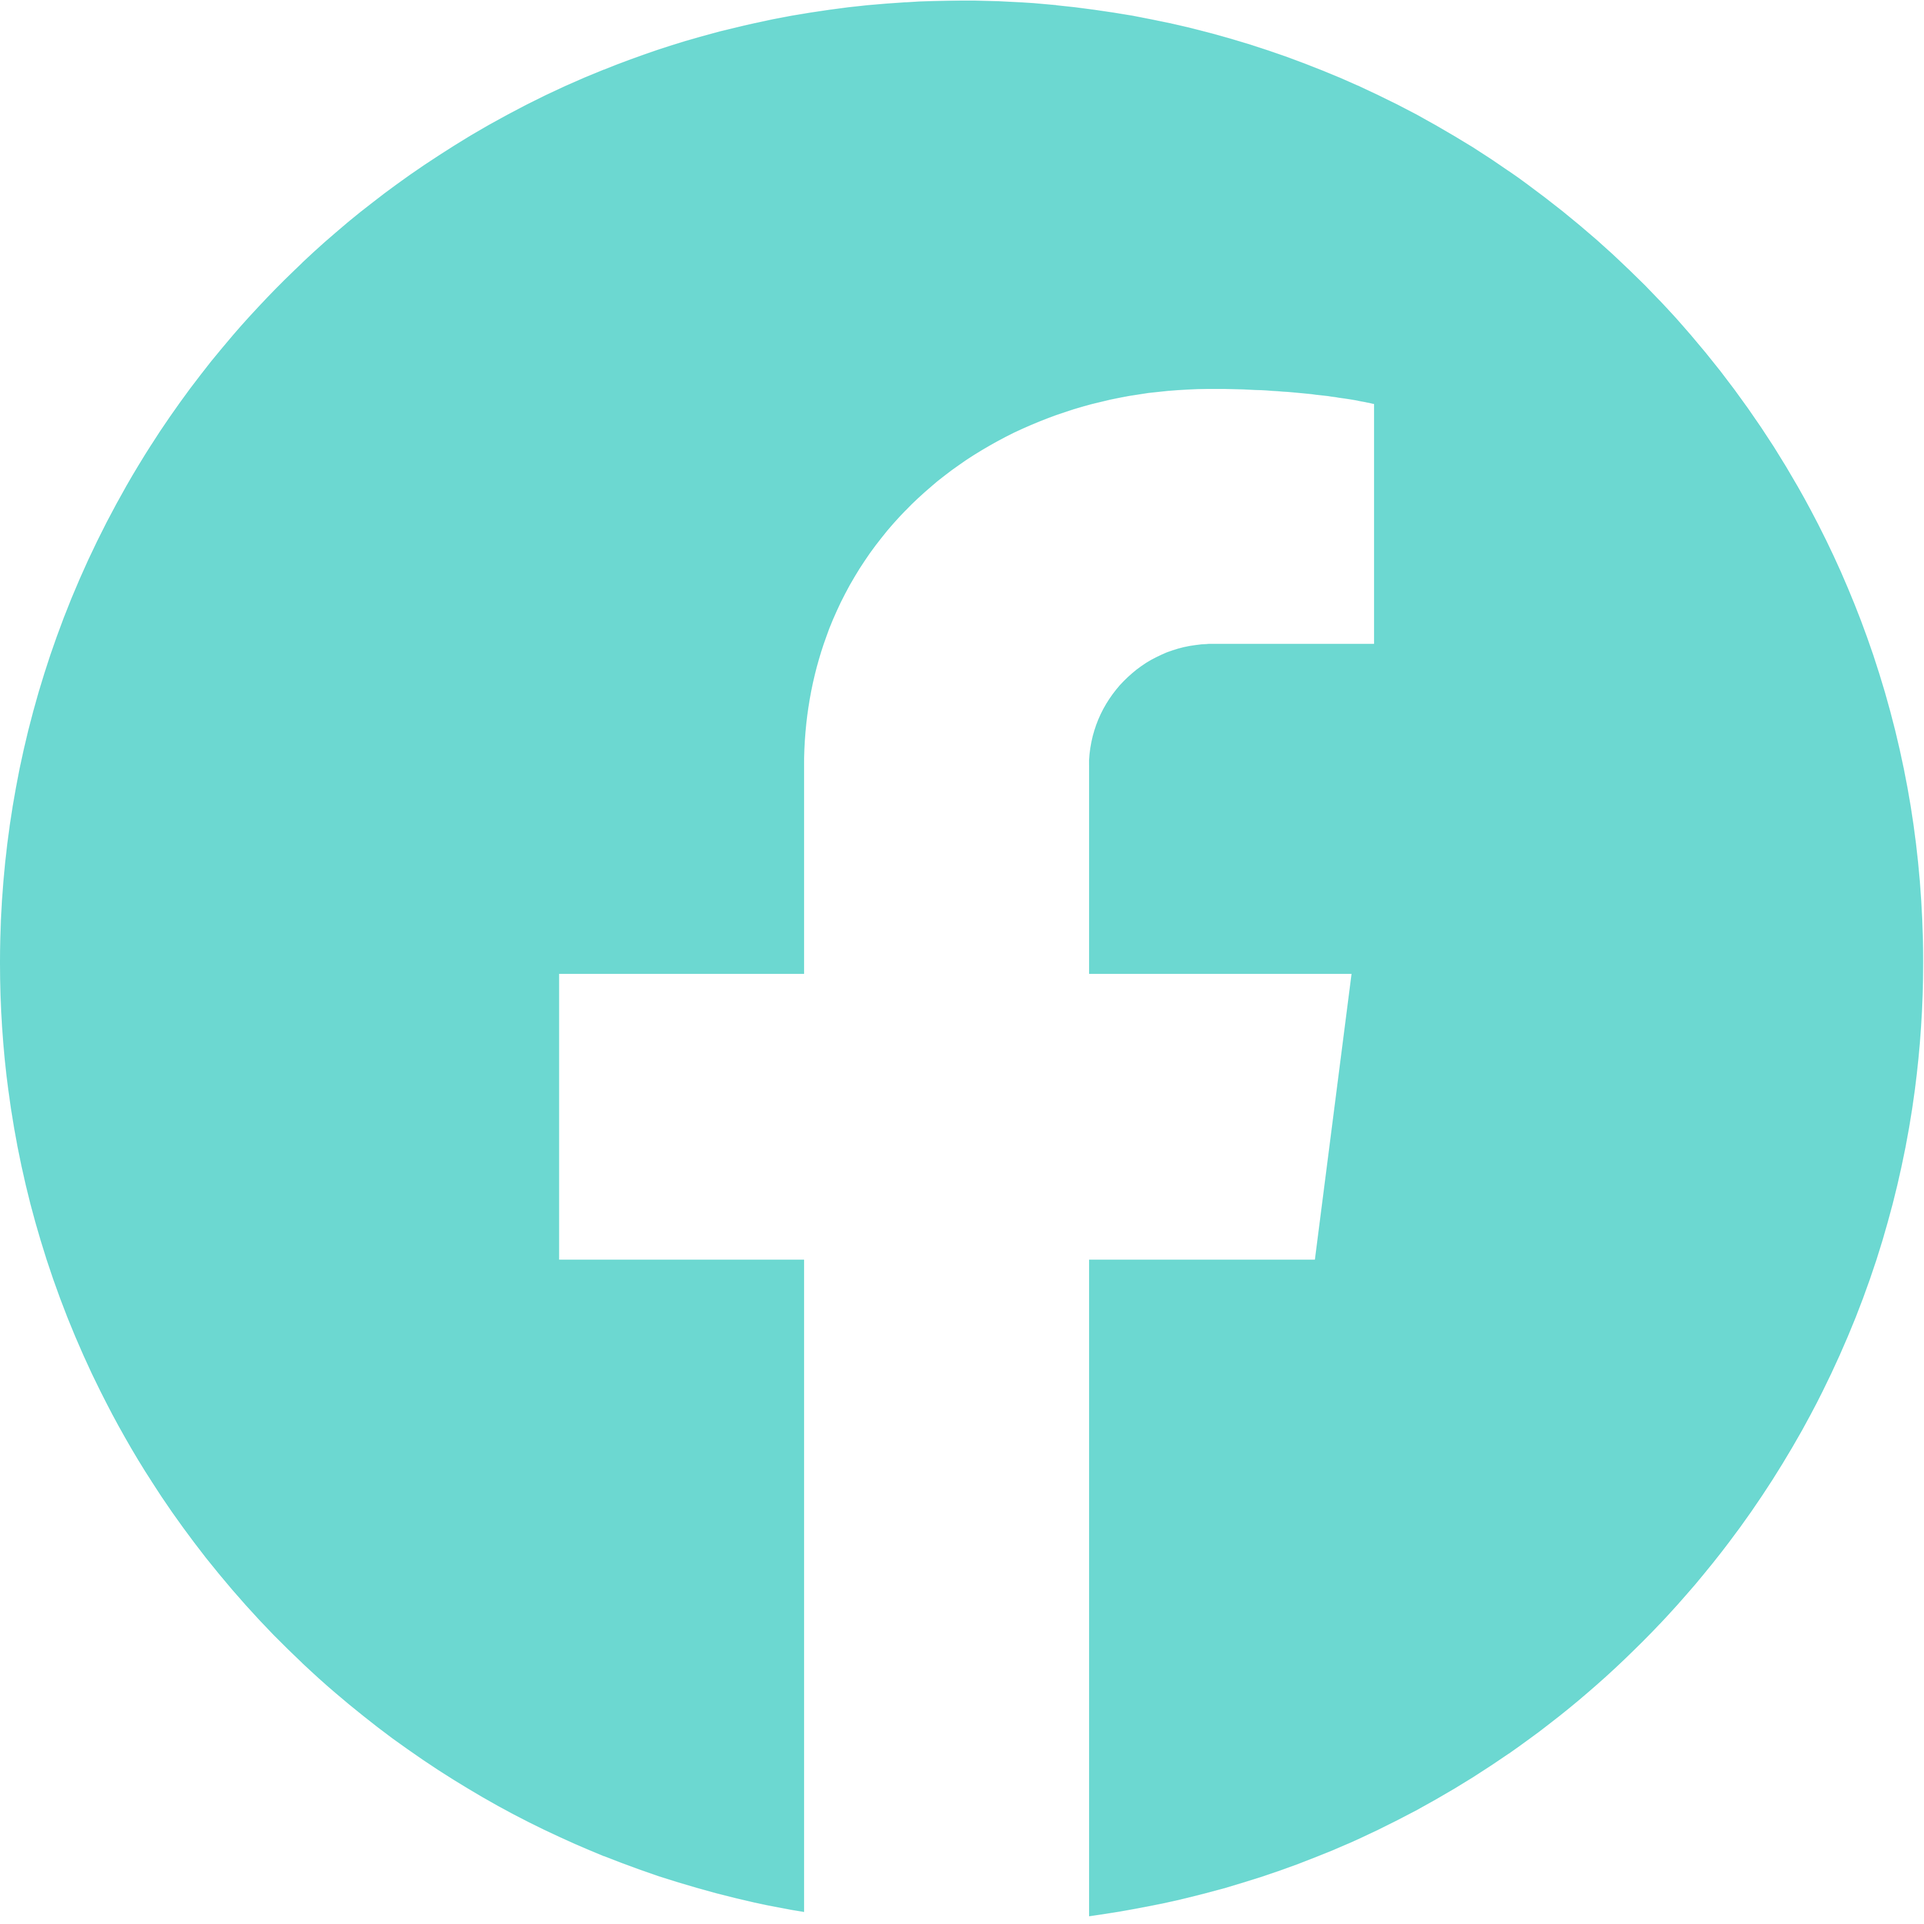
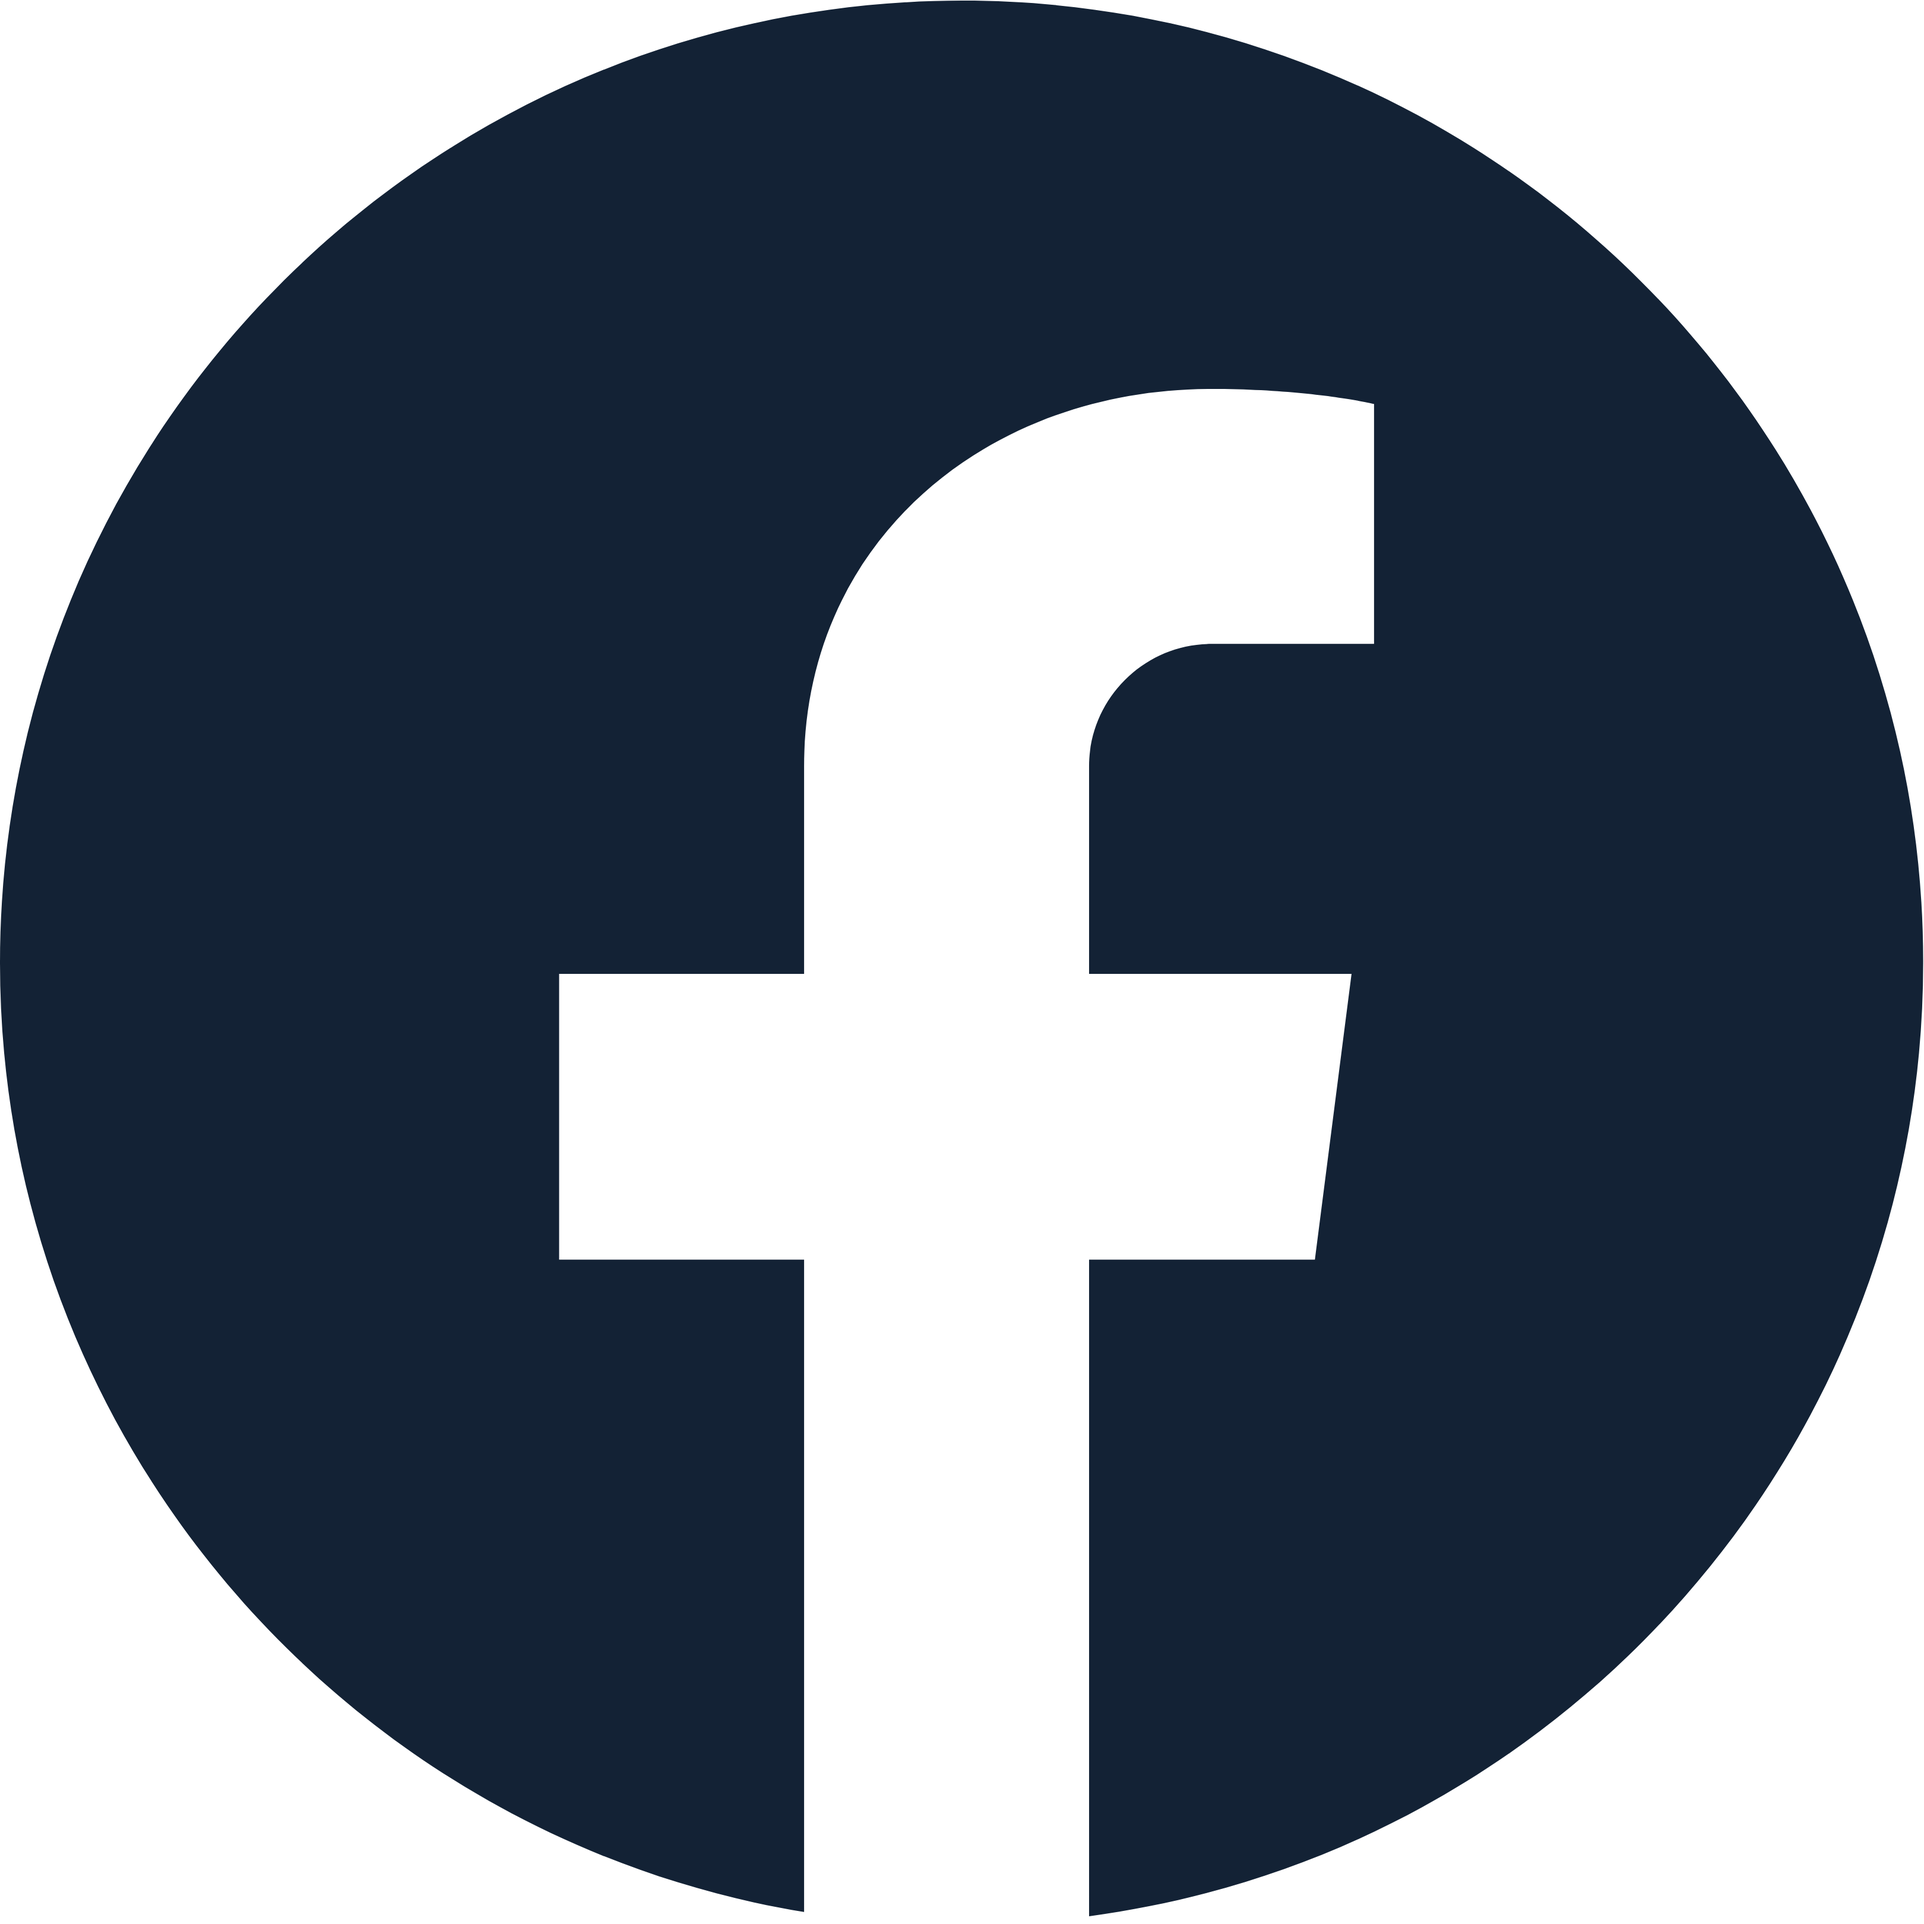
Inicio da parte visual

diff --git a/index.html b/index.html
@@ -1,16 +1,34 @@
 <!DOCTYPE html>
-<html lang="en">
+<html lang="pt-BR">
 
 <head>
     <meta charset="UTF-8">
     <meta http-equiv="X-UA-Compatible" content="IE=edge">
     <meta name="viewport" content="width=device-width, initial-scale=1.0">
     <title>F4Life</title>
-    <link rel="stylesheet" href="stylesheet.css">
+    <link rel="stylesheet" href="style.css">
 </head>
-
 <body>
+    <header> 
+        <div class="cabecalho">
+            <img src="logos/logosemfundo.png" width="18%">
+        </div>
+        <div>
+            <a href=""><img src="icones/menu (1).png" width="3%"/></a> 
+            <img src="img/banner.png" width="100%">
+        </div>
+        
+    </header>
+    <main>
 
+    </main>
+    <footer>
+        <div class="redes-sociais">
+            <a href="https://www.facebook.com/"><img src="icones/faceverde.png" width="30"/></a>
+            <a href="https://www.instagram.com/"><img src="icones/instaverde.png" width="30"></a>
+            <a href="https://twitter.com/login?lang=pt"><img src="icones/twitterverde.png" width="30"/></a>  
+        </div>
+    </footer>
 </body>
 
 </html>

diff --git a/style.css b/style.css
@@ -1,0 +1,16 @@
+
+/* estlização dos botões de redes sociais e footer do site*/
+.cabecalho{
+    text-align: center;
+}
+footer{
+    background-color: #132235;
+    align-items: center;
+    position: fixed;
+    bottom: 0;
+    width:100%;   
+    text-align: center;
+}
+.redes-sociais{
+    margin: 10px;
+}
